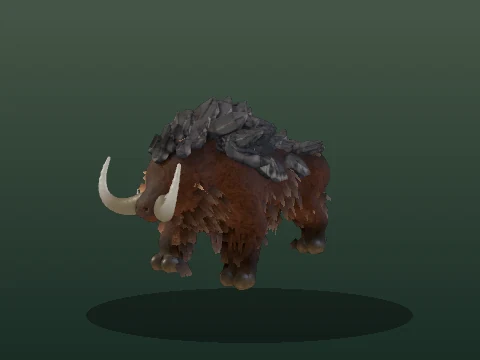
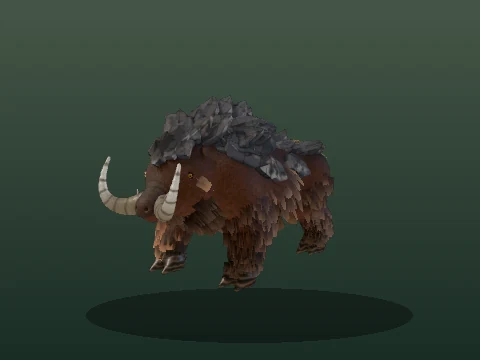
Creatures v2 audit section 14: close-up pass results, QA 38/38, portraits
Section 14 of the audit: what the close-ups against the 20 creature-references images
found and what changed (eyes closed in under the skull, leg fur on the inner faces only,
Dragor head 0.37 m off the sheet, Velkor ears turned inward, hooves, claws, tails, coat),
IoU in the reference views and attack poses before / after, triangles, files, the
remaining differences and the owner's feedback for the next pass.

qa_creatures_v2 310/310, lifecycle 72/72, CI set + combat suites 38/38 (qa_runtime timed
out once under render load, 21/21 alone), glTF-Validator 0 errors / 0 warnings on 28 GLB,
texture import policy clean. Portraits I-III re-rendered with the game renderer.

Claude-Session: https://claude.ai/code/session_01HwWPLLzoojuub9NMHc424s

diff --git a/godot/art/creatures-v2/README.md b/godot/art/creatures-v2/README.md
@@ -41,12 +41,12 @@ decimation, MikkTSpace tangents, Cycles normal/AO bakes), `xatlas` (UV charts), 
 |---|---|---|---|---|
 | Clips | 12 | 12 | 14 | 14 |
 | Bones (skin joints) | 41 | 40 | 44 | 48 |
-| LOD0 / LOD1 / LOD2 triangles | 93 748 / 37 288 / 8 740 | 76 440 / 30 536 / 8 072 | 58 736 / 24 476 / 6 230 | 72 578 / 27 378 / 7 430 |
+| LOD0 / LOD1 / LOD2 triangles | 93 014 / 36 098 / 8 942 | 89 726 / 34 956 / 8 602 | 82 450 / 29 778 / 6 840 | 74 064 / 27 716 / 7 474 |
 | Materials per LOD | 3 (Body, AntlerBark, FurCards) | 3 (Body, Stone, FurCards) | 3 (Body, Details, FurCards) | 2 (Skin, Stone) |
 
 Shapes, materials and attack keys follow the creature-references sheets (section below). The fur cards, moss
-strands and denser plates are what goes over the 03 budgets (Velkor LOD1 37 288 against 20 000, Kamneklyk
-30 536 / 22 000, Tenerys 24 476 / 19 000; Dragor is within budget); `FUR_KEEP` per LOD is the knob to trade
+strands and denser plates are what goes over the 03 budgets (Velkor LOD1 36 098 against 20 000, Kamneklyk
+34 956 / 22 000, Tenerys 29 778 / 19 000; Dragor is within budget); `FUR_KEEP` per LOD is the knob to trade
 coat density for triangles.
 
 * `deliver/<id>/` — per creature: `<id>.blend` (Blender 5.3, LOD1 meshes, armature, every clip as an action,
